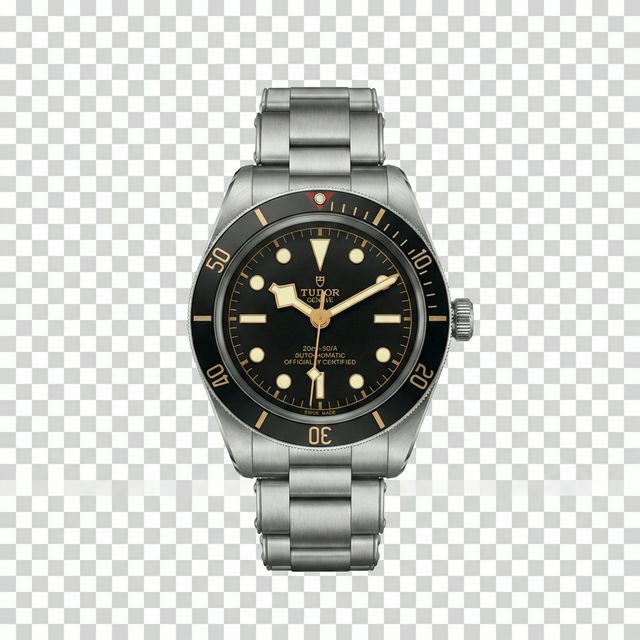
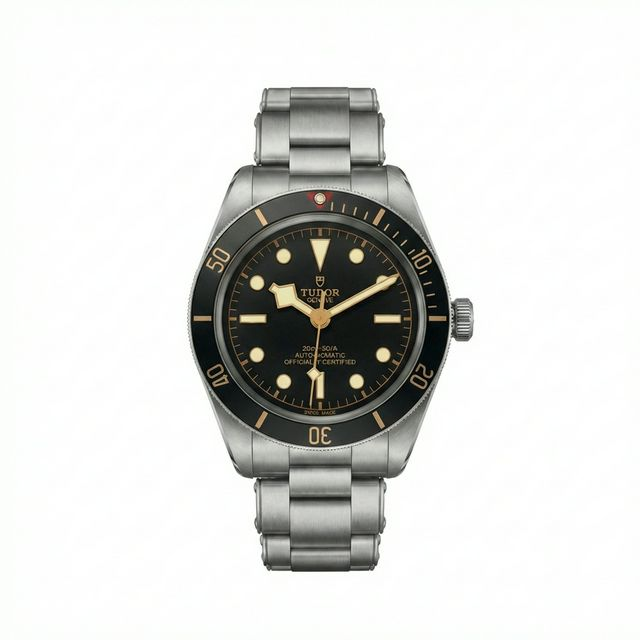
Replace checkerboard images with solid white + client-side transparency processing

diff --git a/swiss-minimalist.js b/swiss-minimalist.js
@@ -98,6 +98,45 @@ document.addEventListener('DOMContentLoaded', () => {
   document.body.style.transition = 'opacity 0.6s ease';
   requestAnimationFrame(() => {
     document.body.style.opacity = '1';
+
+    // Process product images to make white backgrounds transparent
+    // (This ensures the swirl line behind the object is visible only outside the object)
+    const imgs = document.querySelectorAll('.product-item img');
+    imgs.forEach(img => {
+      const process = () => {
+        if (img.dataset.processed) return;
+        try {
+          const canvas = document.createElement('canvas');
+          const ctx = canvas.getContext('2d');
+          canvas.width = img.naturalWidth;
+          canvas.height = img.naturalHeight;
+          ctx.drawImage(img, 0, 0);
+          const imgData = ctx.getImageData(0, 0, canvas.width, canvas.height);
+          const data = imgData.data;
+
+          let hasWhite = false;
+          for (let i = 0; i < data.length; i += 4) {
+            const r = data[i], g = data[i + 1], b = data[i + 2];
+            // If pixel is near white (>240), make it transparent
+            if (r > 240 && g > 240 && b > 240) {
+              data[i + 3] = 0; // Alpha = 0
+              hasWhite = true;
+            }
+          }
+
+          if (hasWhite) {
+            ctx.putImageData(imgData, 0, 0);
+            img.src = canvas.toDataURL();
+            img.dataset.processed = 'true';
+          }
+        } catch (e) {
+          console.warn('Could not process image transparency:', e);
+        }
+      };
+
+      if (img.complete) process();
+      else img.addEventListener('load', process);
+    });
   });
 
   // ------ Swirly Pen Stroke Hover Effect ------
